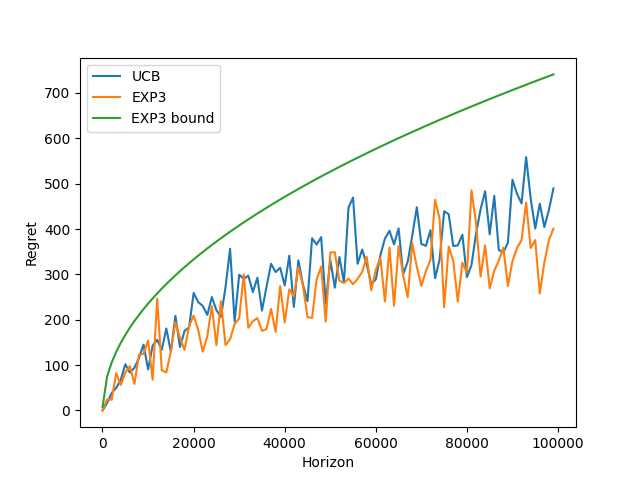
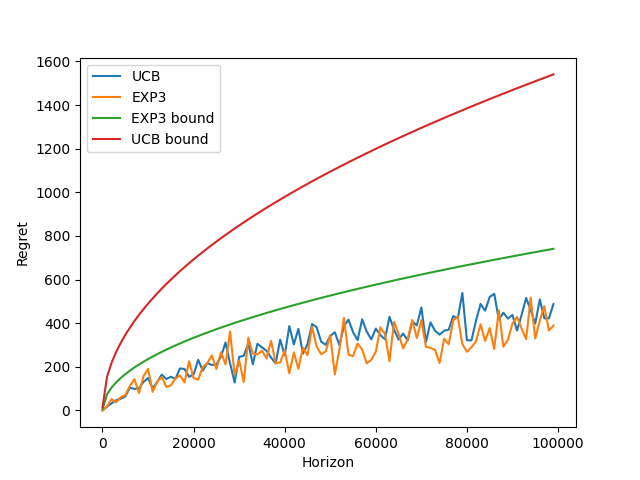
graphs

diff --git a/BA_ch_11/BA11.py b/BA_ch_11/BA11.py
@@ -63,9 +63,12 @@ def main():
             exp3_regret.append(exp3_r)
     plt.plot(horizon_list, ucb_regret, label="UCB")
     plt.plot(horizon_list, exp3_regret, label="EXP3")
-    # add the theoretical bounds
+    # add the theoretical bounds for exp3
     # should be bounded by 2 * sqrt(horizon * num_arms * log(num_arms))
     plt.plot(horizon_list, 2 * np.sqrt(np.array(horizon_list) * bandit.n_arms * np.log(bandit.n_arms)), label="EXP3 bound")
+    # add the theoretical bounds for ucb
+    # should be bounded by 2 * sqrt(horizon * num_arms * log(1 / delta))
+    plt.plot(horizon_list, 2 * np.sqrt(np.array(horizon_list) * bandit.n_arms * np.log(1 / delta)), label="UCB bound")
     plt.xlabel("Horizon")
     plt.ylabel("Regret")
     plt.legend()
